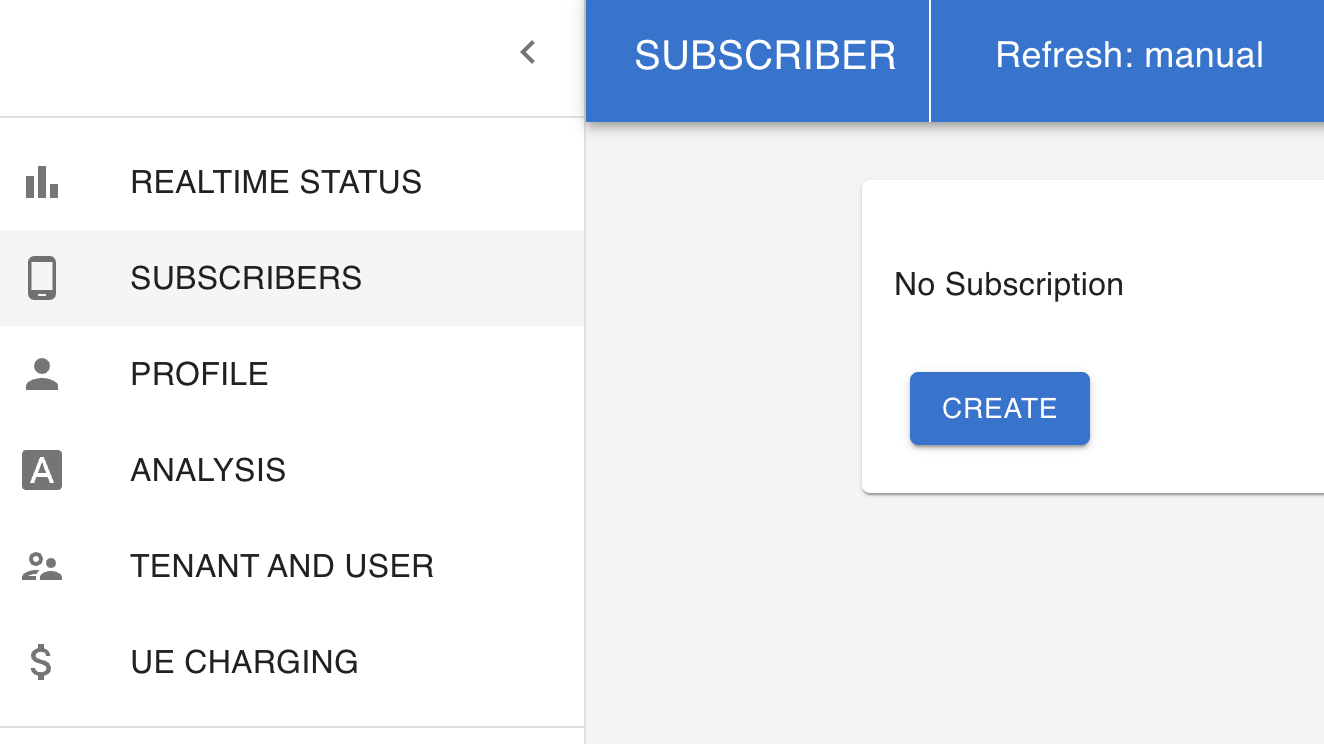
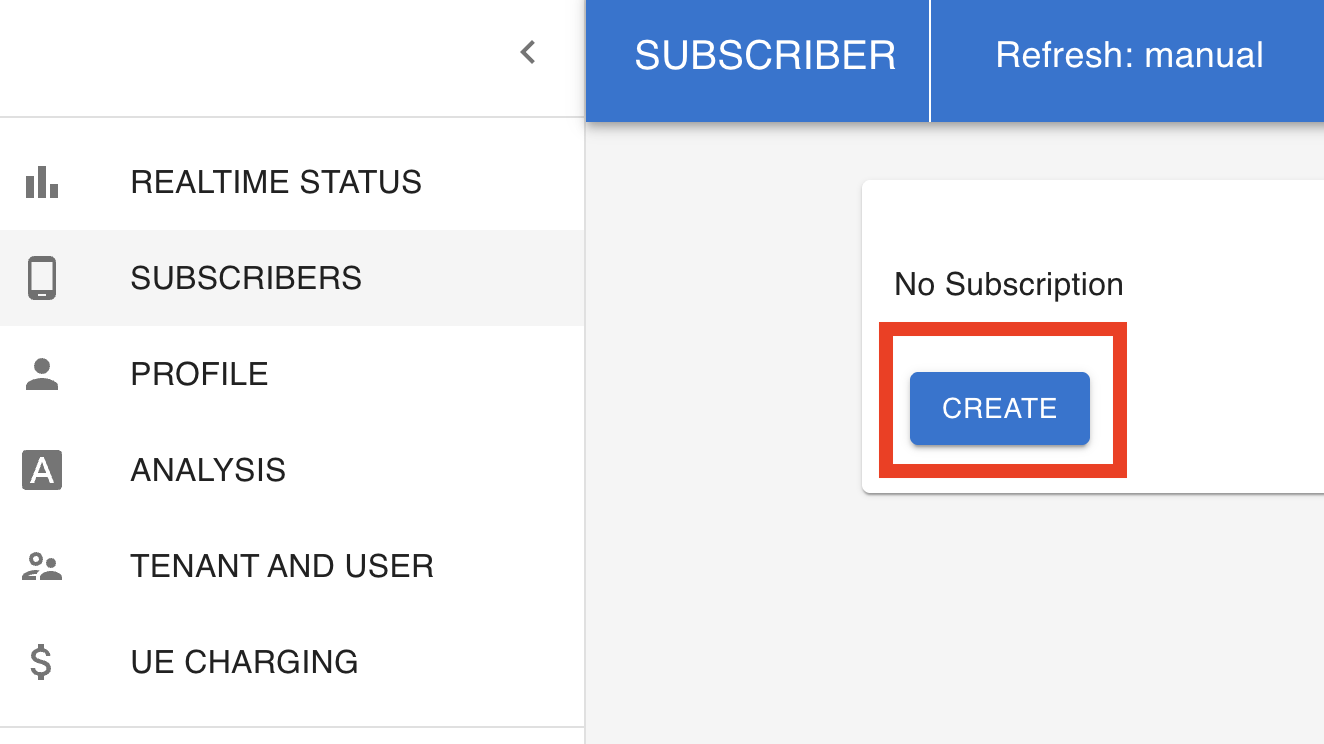
update tutorial readmegit add .

Changed region(s): [[0.6503, 0.4328, 0.8671, 0.6492]]

diff --git a/docs/knit-2026-tutorials/2nd-tutorial.md b/docs/knit-2026-tutorials/2nd-tutorial.md
@@ -92,38 +92,54 @@ If no subscriber has been created yet, you will see a page showing **No Subscrip
 Click **CREATE** to add a new UE subscriber.
 
 <p align="center">
-  <img src="./webconsole/webconsole-create-sub-button.png" alt="WebConsole Login" width="30%">
+  <img src="./webconsole/webconsole-create-sub-button.png" alt="WebConsole Create Sub Button" width="30%">
 </p>
 
-##### (3) Go to the bottom of the subscriber creation page
+##### (3) Remove the default flow rules
 You will be taken to the subscriber creation page.
 
-For this tutorial, the required fields are already filled in.  
-Scroll down to the bottom of the page.
+Most fields are already pre-filled for this tutorial, but you need to make one manual change.
 
 <p align="center">
-  <img src="./webconsole/webconsole-create-sub-panel.png" alt="WebConsole Login" width="70%">
+  <img src="./webconsole/webconsole-create-sub-panel.png" alt="WebConsole Create Sub Panel" width="70%">
 </p>
+
+Each subscriber includes two slices by default, and each slice contains a **Flow Rule**.  
+Since the later experiments use **OAI gNB**, and **OAI gNB does not support multiple slice rules**, you need to remove the default flow rule(s) before creating the subscriber.
+
+In the **Flow Rules** section, click the red **DELETE** button at the upper-right corner of the rule panel to remove the rule.
+
+<p align="center">
+  <img src="./webconsole/webconsole-flow-rule-1.png" alt="Delete the default flow rule" width="70%">
+</p>
+
+Do the same for the 2nd slice.
+
+<p align="center">
+  <img src="./webconsole/webconsole-flow-rule-2.png" alt="Delete the default flow rule in the other slice" width="70%">
+</p>
+
+Then scroll to the bottom of the page and click **CREATE**.
 
 ##### (4) Create the subscriber
 At the bottom of the page, click **CREATE** to create the UE subscription.
 
 <p align="center">
-  <img src="./webconsole/webconsole-create-sub-final.png" alt="WebConsole Login" width="70%">
+  <img src="./webconsole/webconsole-create-sub-final.png" alt="WebConsole Create Sub Final" width="70%">
 </p>
 
 ##### (5) Confirm the creation
 After the subscriber is created successfully, the Webconsole will return to the subscriber list page, where you should see the new subscriber entry.
 
 <p align="center">
-  <img src="./webconsole/webconsole-done.png" alt="WebConsole Login" width="70%">
+  <img src="./webconsole/webconsole-done.png" alt="WebConsole Done" width="70%">
 </p>
 
 ---
 
 ### Step-1: Testing L25GC+ with UERANsim
 
-> In this experiment, we will bring up all NFs for L25GC+ on the CN node. Then we will bring up the UERANsim's gNB and UE on the UERAN node. We will next test the connectivity between the UERAN node and DN node via ping. We will finally do the throughput test between the UE (iperf3 client) and the DN server (iperf3 server).
+> In this experiment, we will bring up all NFs for L25GC+ on the CN node. Then we will bring up the UERANsim's gNB and UE on the UERAN node to trigger UE Registration and PDU Session Establishment. We will next test the connectivity between the UERAN node and DN node via ping. We will finally do the throughput test between the UE (iperf3 client) and the DN server (iperf3 server).
 
 ---
 
